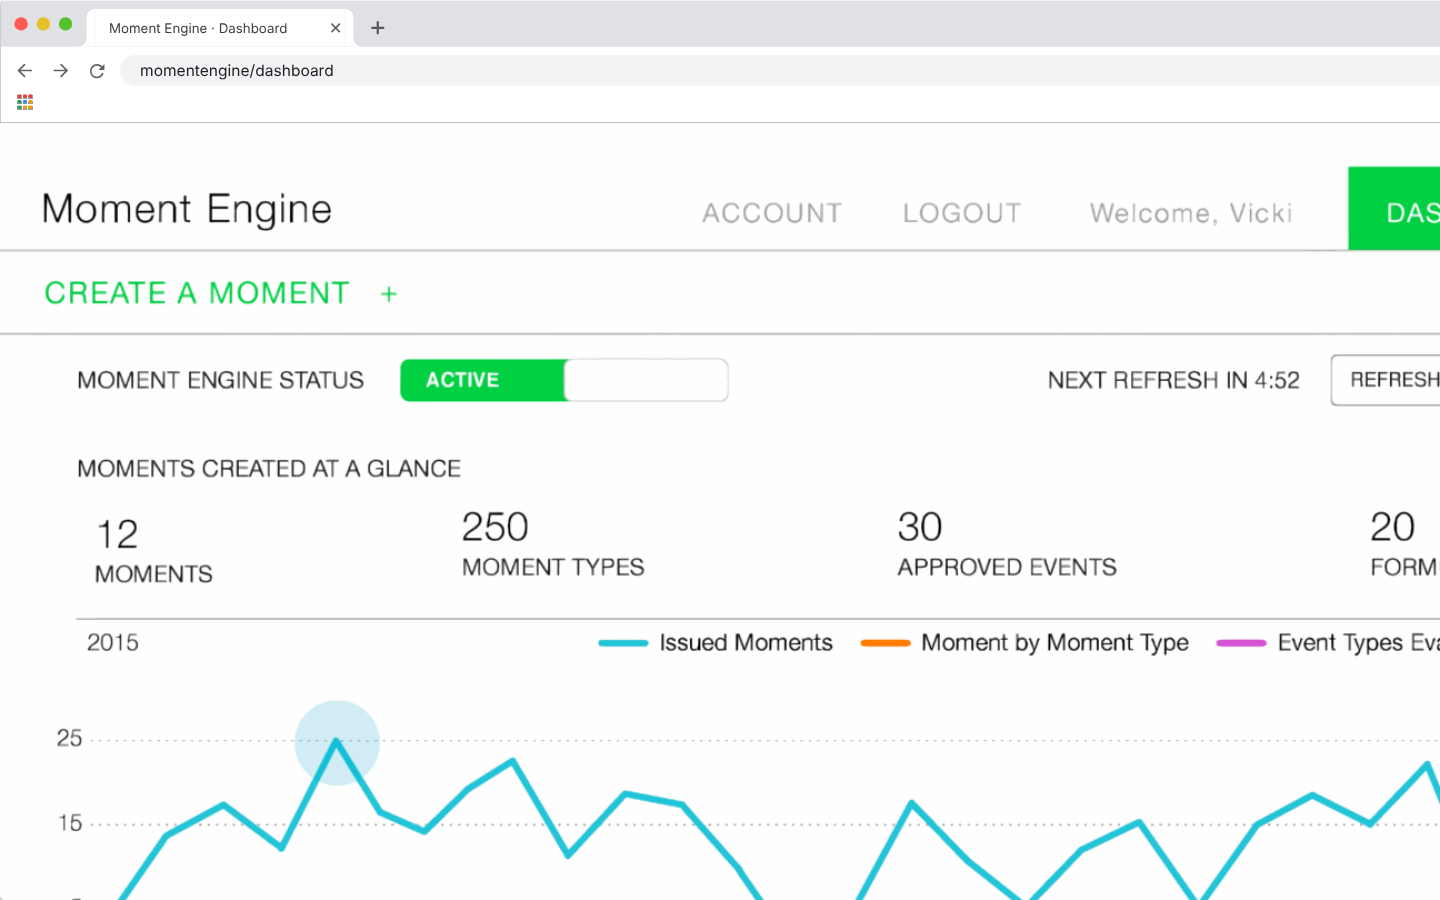
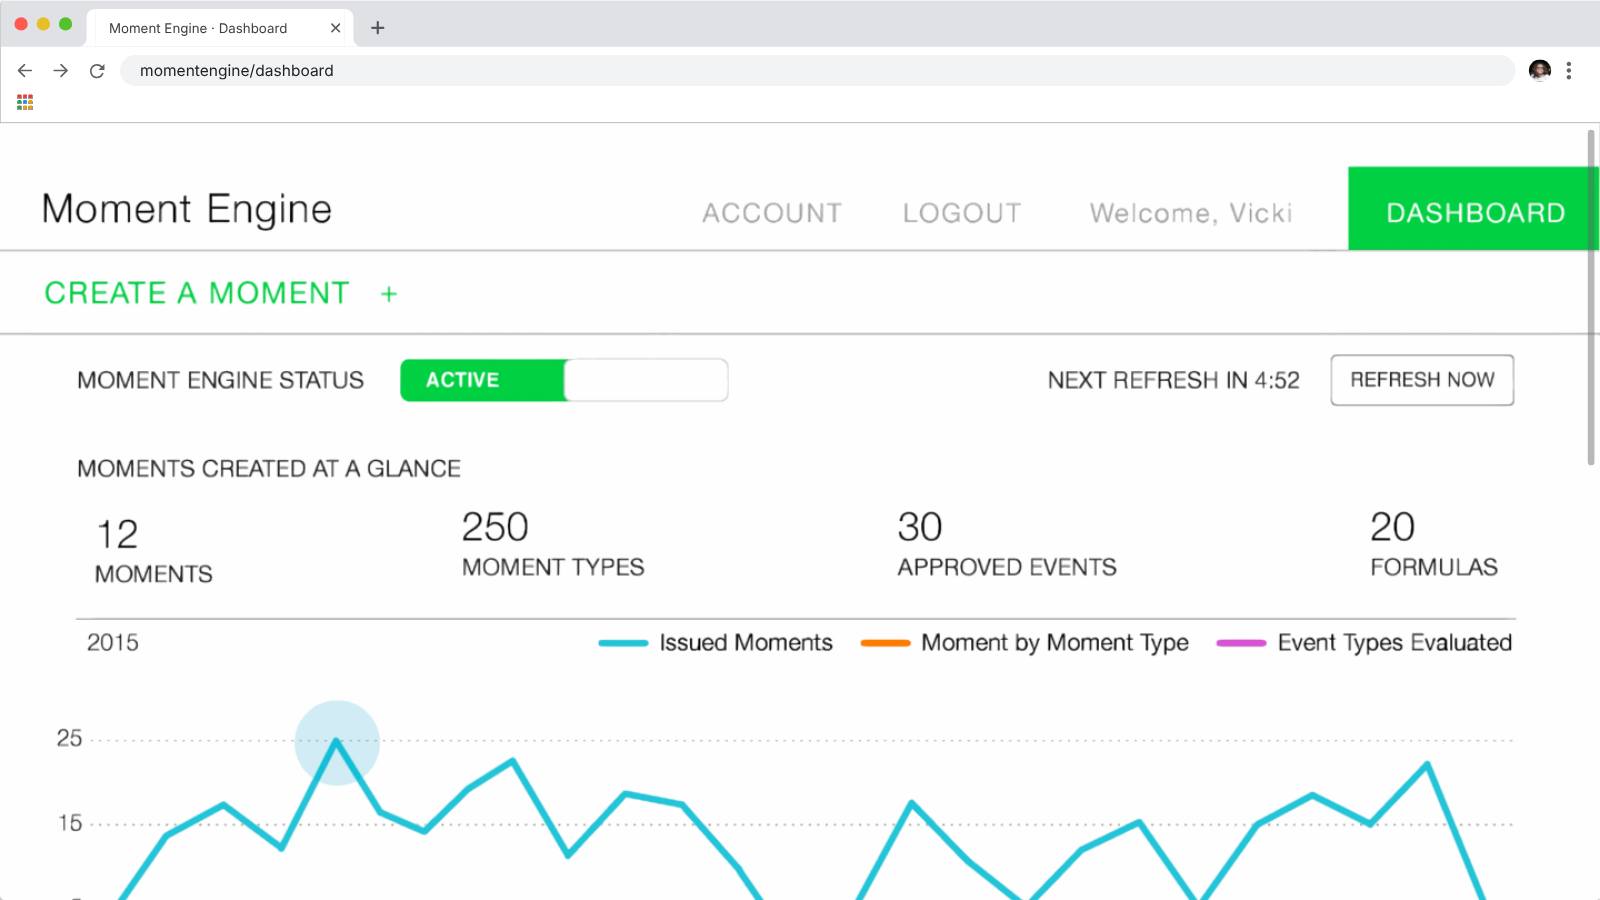
Epsilon preview: full-width dashboard, no cropping (new 'Show the whole drop-down image' option in Pages CMS)
Claude-Session: https://claude.ai/code/session_01E1SYBESVZjkS7hAnN2ZAYb

diff --git a/build.js b/build.js
@@ -399,7 +399,7 @@ function row(p) {
       <span class="row-toggle" aria-hidden="true"></span>
     </summary>
     <div class="drawer">
-      ${drawerImg ? `<a class="drawer-media" href="${projectUrl(p)}" tabindex="-1"><img${edImage(p, "drawer_image", "drawer_image_alt", `@file[/content/projects/${p.slug}.md].`)} src="${assetUrl(p, drawerImg)}" alt="${escapeHtml(drawerAlt)}" loading="lazy"></a>` : ""}
+      ${drawerImg ? `<a class="drawer-media${p.drawer_whole ? " whole" : ""}" href="${projectUrl(p)}" tabindex="-1"><img${edImage(p, "drawer_image", "drawer_image_alt", `@file[/content/projects/${p.slug}.md].`)} src="${assetUrl(p, drawerImg)}" alt="${escapeHtml(drawerAlt)}" loading="lazy"></a>` : ""}
       <div class="drawer-text">
         ${p.tagline ? `<p class="drawer-tagline"${edText(f("tagline"))}>${escapeHtml(p.tagline)}</p>` : ""}
         ${p.summary ? `<p class="drawer-summary"${edText(f("summary"))}>${escapeHtml(String(p.summary).trim())}</p>` : ""}

diff --git a/theme/style.css b/theme/style.css
@@ -227,6 +227,9 @@ h1 em { font-style: italic; color: var(--accent); }
 @keyframes drawer-in { from { opacity: 0; transform: translateY(-6px); } to { opacity: 1; transform: none; } }
 .drawer-media { display: block; aspect-ratio: 16 / 10; position: relative; z-index: 1; }
 .drawer-media img, .drawer-media > svg { width: 100%; height: 100%; object-fit: cover; border-radius: 4px; border: 1px solid var(--rule); }
+/* "Show the whole drop-down image" (Pages CMS): the image fills the full width, pinned to the top; the box takes the image's own shape, so nothing is cut off the sides */
+.drawer-media.whole { aspect-ratio: auto; overflow: hidden; }
+.drawer-media.whole > img { position: static; height: auto; object-fit: cover; object-position: top; }
 
 /* photo hover: the photo lifts straight up, both corners evenly, with a soft shadow.
    The hover area stays put while the photo moves, so it doesn't flicker. */

diff --git a/content/projects/epsilon-marketing-engine-tool.md b/content/projects/epsilon-marketing-engine-tool.md
@@ -23,6 +23,7 @@ hidden: false
 cover: /images/logos/epsilon-seeklogo.svg
 drawer_image: /images/projects/epsilon/moment-engine-dashboard.png
 drawer_image_alt: The Moment Engine dashboard in a browser window
+drawer_whole: true
 prototype_size: half
 sections:
   - heading: Developing a Mental Model
